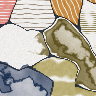
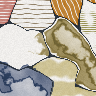
scheme: paint in shades of the palette, not the swatches
A palette is a handful of colours, and a hundred cells painted in exactly
those reads as a chart of the palette rather than as a picture. Real paint
has tints and shades of every pigment, and it is the within-hue spread that
makes a sheet look mixed rather than sampled.

Spec.Shades spreads each fill into a family around its swatch, applied as a
pass over the finished arrangement rather than inside each strategy: that
way it reaches sequence and inherit too, and no strategy has to know about
it. The drift is mostly value and saturation with only a few degrees of
hue — a wide hue jitter has stopped shading the colour and started choosing
a different one, which is the arrangement's business.

It never touches the Tone. Shading the value structure would blur the one
thing carrying the composition.

Two tests had to change instrument rather than threshold. Counting distinct
colours said a near-monochrome sheet used 119 pigments, which is true and
useless; bucketing hues said one hue was four families, because a 3-degree
drift straddles whatever bucket boundary it sits near. Both now measure how
tightly the sheet huddles round one hue — the share within 20 degrees of the
commonest — and compare schemes relatively, because how tightly any scheme
huddles is partly a fact about the palette.

out/foam-colour holds the fifteen schemes across six palettes on one packed
structure, seed 7.

diff --git a/internal/scheme/scheme_test.go b/internal/scheme/scheme_test.go
@@ -47,6 +47,37 @@ func fills(m *Mixer) []palette.Color {
 	return out
 }
 
+// huddle is the share of colours sitting within tol degrees of the commonest
+// hue among them — how tightly the set huddles round one colour.
+//
+// Buckets are the wrong instrument once Shades is on. A few degrees of drift
+// never changes the colour anyone sees, but it straddles whatever bucket
+// boundary it happens to sit near, so a genuinely monochrome set counts as
+// four "families" for reasons that are about the ruler, not the paint.
+func huddle(cs []palette.Color, tol float64) float64 {
+	hs := make([]float64, 0, len(cs))
+	for _, c := range cs {
+		h, sat, _ := c.HSL()
+		if sat >= 0.1 { // a near-neutral has no hue to be near
+			hs = append(hs, h)
+		}
+	}
+	if len(hs) == 0 {
+		return 1
+	}
+	best := 0
+	for _, centre := range hs {
+		n := 0
+		for _, h := range hs {
+			if hueGap(h, centre) <= tol {
+				n++
+			}
+		}
+		best = max(best, n)
+	}
+	return float64(best) / float64(len(hs))
+}
+
 func distinct(cs []palette.Color) int {
 	seen := map[palette.Color]bool{}
 	for _, c := range cs {
@@ -265,6 +296,48 @@ func TestAnUnknownStrategyIsPassage(t *testing.T) {
 	for i := range got {
 		if got[i] != want[i] {
 			t.Fatalf("region %d: %v, want passage's %v", i, got[i], want[i])
+		}
+	}
+}
+
+// TestShadesSpreadTheColourWithoutLosingTheArrangement. A palette is a
+// handful of colours, and a hundred regions painted in exactly those reads as
+// a chart of them; real paint has tints and shades of every pigment. But the
+// spread has to stay *within* what the scheme decided — a jitter wide enough
+// to change which hue family a region belongs to has stopped shading the
+// arrangement and started overwriting it.
+func TestShadesSpreadTheColourWithoutLosingTheArrangement(t *testing.T) {
+	regions := scatter(11, 200)
+	spec := Spec{Name: Monochrome, Palette: testPalette(t), Seed: 3, Aspect: 1.25, Passage: 0.75, Accent: 0.2}
+
+	plain := New(spec, regions)
+	spec.Shades = 0.7
+	shaded := New(spec, regions)
+
+	// The spread is real: the bare palette repeats a couple of swatches, the
+	// shaded one gives nearly every region its own value.
+	if distinct(fills(plain)) >= 5 || distinct(fills(shaded)) < len(regions)/2 {
+		t.Errorf("plain uses %d colours and shaded %d of %d regions — the shading is not spreading them",
+			distinct(fills(plain)), distinct(fills(shaded)), len(regions))
+	}
+	// And it is still near-monochrome: the arrangement survives. Nearly
+	// every region has to sit within a narrow band of one hue; the handful
+	// outside it are the sparks the scheme puts there on purpose.
+	if h := huddle(fills(shaded), 20); h < 0.85 {
+		t.Errorf("only %.0f%% of the shaded monochrome sheet is within 20° of one hue — the shading overwrote the scheme", h*100)
+	}
+	// Against a scheme that is meant to range: the comparison is relative
+	// because how tightly *any* scheme huddles is partly a fact about the
+	// palette, and this one is mostly golds and olives.
+	loose := New(Spec{Name: Passage, Palette: testPalette(t), Seed: 3, Aspect: 1.25, Passage: 0.75, Accent: 0.2, Shades: 0.7}, regions)
+	if a, b := huddle(fills(shaded), 20), huddle(fills(loose), 20); a <= b+0.1 {
+		t.Errorf("monochrome huddles %.0f%% and passage %.0f%% — the monochrome is not the tighter of the two", a*100, b*100)
+	}
+	// The value structure is untouched, because shading moves the Fill and
+	// never the Tone: blurring the tone would blur what carries the piece.
+	for i := range regions {
+		if plain.At(i).Tone != shaded.At(i).Tone {
+			t.Fatalf("region %d: shading moved the tone from %v to %v", i, plain.At(i).Tone, shaded.At(i).Tone)
 		}
 	}
 }

diff --git a/internal/sketch/foam/watercolour_test.go b/internal/sketch/foam/watercolour_test.go
@@ -245,15 +245,37 @@ func TestEachColourSchemeOrganisesTheSheetDifferently(t *testing.T) {
 			t.Errorf("--scheme %s gives %.0f%% of its cells the same pigment as passage does", sc, share*100)
 		}
 	}
-	hues := func(cs []palette.Color) int {
-		seen := map[palette.Color]bool{}
+	// Measured as how tightly the sheet huddles round one hue, not as a
+	// count of distinct colours. Every cell is a shade of its scheme's
+	// answer — a tint or a deepening, the way real paint has tints and
+	// shades of every pigment — so no two cells hold exactly the same
+	// colour, and counting them would say a monochrome sheet uses a hundred.
+	// What "near-monochrome" means is one hue at many strengths.
+	huddle := func(cs []palette.Color) float64 {
+		hs := make([]float64, 0, len(cs))
 		for _, c := range cs {
-			seen[c] = true
+			if h, sat, _ := c.HSL(); sat >= 0.1 {
+				hs = append(hs, h)
+			}
 		}
-		return len(seen)
+		if len(hs) == 0 {
+			return 1
+		}
+		best := 0
+		for _, centre := range hs {
+			n := 0
+			for _, h := range hs {
+				d := math.Mod(math.Abs(h-centre), 360)
+				if math.Min(d, 360-d) <= 20 {
+					n++
+				}
+			}
+			best = max(best, n)
+		}
+		return float64(best) / float64(len(hs))
 	}
-	if q, p := hues(sheets[schemeQuiet]), hues(sheets[schemePassage]); q >= p {
-		t.Errorf("the quiet sheet uses %d pigments and the passage sheet %d — it is not near-monochrome", q, p)
+	if q, p := huddle(sheets[schemeQuiet]), huddle(sheets[schemePassage]); q <= p {
+		t.Errorf("the quiet sheet huddles %.0f%% within one hue and the passage sheet %.0f%% — it is not near-monochrome", q*100, p*100)
 	}
 }
 

diff --git a/internal/scheme/strategies.go b/internal/scheme/strategies.go
@@ -16,13 +16,38 @@ func (s *state) resolve() {
 	switch s.spec.Name {
 	case Sequence:
 		s.sequence()
+		s.shades()
 		return
 	case Inherit:
 		s.inherit()
+		s.shades()
 		return
 	}
 	for i, r := range s.regions {
 		s.out[i] = s.one(r)
+	}
+	s.shades()
+}
+
+// shades spreads each fill into a family around its palette colour.
+//
+// Applied as a pass over the finished arrangement rather than inside each
+// strategy, so that it reaches sequence and inherit too, and so that a
+// strategy never has to think about it. The tone is deliberately left alone:
+// it is the value structure the arrangement decided, and letting a shade
+// jitter move it would blur exactly the thing that carries the composition.
+func (s *state) shades() {
+	if s.spec.Shades <= 0 {
+		return
+	}
+	k := s.spec.Shades
+	for i := range s.out {
+		h, sat, l := s.out[i].Fill.HSL()
+		s.out[i].Fill = palette.FromHSL(
+			h+rnd.Gauss(s.rng, 0, 4*k),
+			mathx.Clamp01(sat*(1+rnd.Gauss(s.rng, 0, 0.28*k))),
+			mathx.Clamp01(l+rnd.Gauss(s.rng, 0, 0.10*k)),
+		)
 	}
 }
 

diff --git a/internal/scheme/scheme.go b/internal/scheme/scheme.go
@@ -106,6 +106,18 @@ type Spec struct {
 	Passage float64
 	// Accent is the share of regions allowed off-scheme.
 	Accent float64
+	// Shades is how far a fill may wander from its palette colour in
+	// lightness and saturation: 0 gives the bare swatches, 1 a wide family
+	// around each one.
+	//
+	// A palette is a handful of colours, and a composition of a hundred
+	// regions painted in exactly those reads as a chart of them. Real paint
+	// has tints and shades of every pigment, and it is the *within-hue*
+	// spread that makes a sheet look mixed rather than sampled. The drift is
+	// mostly in value and saturation, with only a few degrees of hue: a
+	// large hue jitter stops being a shade of the colour and becomes a
+	// different colour, which is the arrangement's business, not this.
+	Shades float64
 }
 
 // Mixer is a resolved arrangement: every region already has its colour.

diff --git a/internal/sketch/foam/foam.go b/internal/sketch/foam/foam.go
@@ -65,6 +65,7 @@ type Sketch struct {
 	Passage float64 // wavelength of the colour field, canvas units
 	Stroke  float64 // pencil stroke pitch, canvas units
 	Flat    float64 // how far a flat fill deepens at full tone; 1 is no deepening
+	Shades  float64 // how far a cell's colour wanders from its palette swatch
 	Depth   float64 // rise of the relief, ×smallest cell (shade.go)
 	Bevel   float64 // run that rise happens over, ×smallest cell
 	Light   float64 // the light's bearing, degrees
@@ -95,6 +96,7 @@ func New() *Sketch {
 		Passage: 0.75,
 		Stroke:  0.0045,
 		Flat:    0.76,
+		Shades:  0.7,
 		Depth:   0.12,
 		Bevel:   0.2,
 		Light:   135,

diff --git a/internal/sketch/foam/options.go b/internal/sketch/foam/options.go
@@ -61,6 +61,7 @@ func (s *Sketch) declare() {
 	o.Float("grain", "paper tooth", "gn", 0, 0.4, &s.Grain)
 	o.Float("accent", "share of cells taking a colour from outside their passage", "ac", 0, 1, &s.Accent)
 	o.Float("passage", "wavelength of the colour field, canvas units", "pa", 0.1, 4, &s.Passage)
+	o.Float("shades", "how far a cell wanders from its palette swatch; 0 is the bare palette", "sh", 0, 2, &s.Shades)
 	o.Float("flat", "how far a flat fill deepens at full tone; 1 is no deepening", "fl", 0.2, 1, &s.Flat)
 	o.Float("stroke", "pencil stroke pitch, canvas units", "st", 0.001, 0.1, &s.Stroke)
 

diff --git a/internal/sketch/foam/scheme.go b/internal/sketch/foam/scheme.go
@@ -66,6 +66,7 @@ func (s *Sketch) mixFor(f *cells.Foam, l levels, rng *rand.Rand, ramp []palette.
 		Aspect:  aspect,
 		Passage: s.Passage,
 		Accent:  s.Accent,
+		Shades:  s.Shades,
 	}, regions)}
 }
 

diff --git a/.claude/skills/colouring/SKILL.md b/.claude/skills/colouring/SKILL.md
@@ -59,6 +59,32 @@ nothing left to read.
 field at the same scale and offset produce the same picture with a different
 caption. Offset and rescale per strategy, or you will ship one idea twice.
 
+## Shades, not swatches
+
+A palette is a handful of colours, and a hundred regions painted in exactly
+those reads as a *chart* of the palette. Real paint has tints and shades of
+every pigment, and it is the within-hue spread that makes a composition look
+mixed rather than sampled.
+
+Apply it as a **pass over the finished arrangement**, not inside each
+strategy: that way it reaches every strategy including the order-dependent
+ones, and no strategy has to think about it. Drift mostly in lightness and
+saturation, only a few degrees in hue — a large hue jitter has stopped being
+a shade of the colour and become a different colour, which is the
+arrangement's decision, not the shading's.
+
+**Never let it touch the value structure.** Shade the fill, leave the tone
+alone; blurring the tone blurs the one thing carrying the piece.
+
+Testing this needs care. Once shading is on, no two regions hold exactly the
+same colour, so counting distinct colours says a monochrome composition uses
+a hundred of them. Bucketing hues is no better — a few degrees of drift never
+changes the colour anyone sees, but it straddles whatever bucket boundary it
+happens to sit near. Measure instead **how tightly the set huddles round one
+hue**: the share of regions within ~20° of the commonest. And compare schemes
+*relatively*, because how tightly any scheme huddles is partly a fact about
+the palette.
+
 ## Proportion
 
 Harmony is as much about *area* as about hue. The classical ratios — 70/20/10
